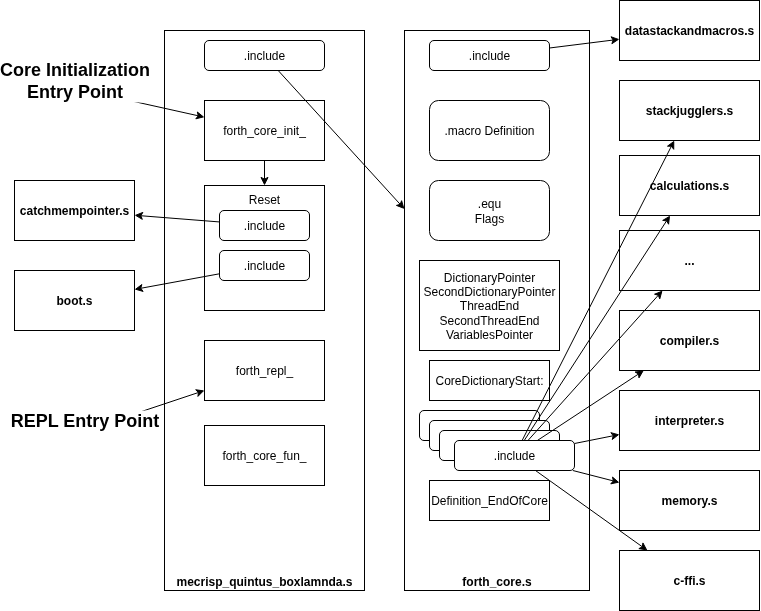
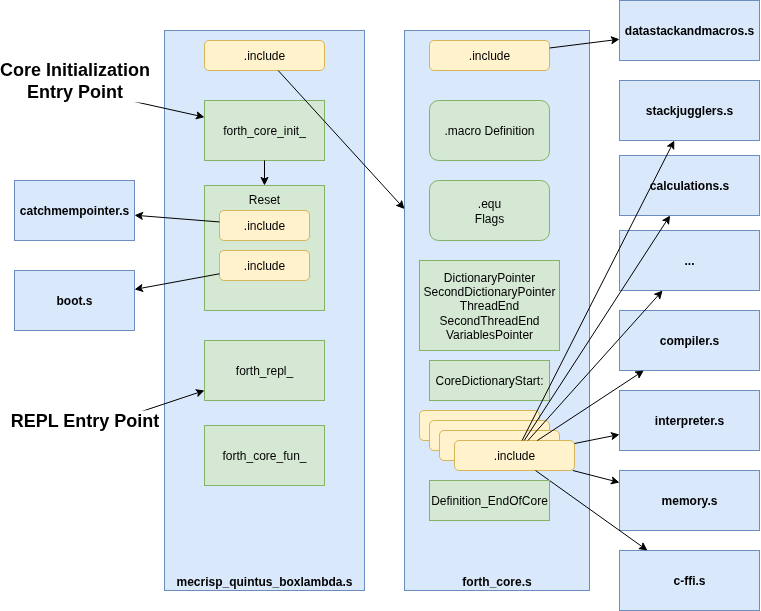
Add Forth Core Org diagram

diff --git a/docs/forth-core.md b/docs/forth-core.md
@@ -83,6 +83,10 @@ There's a lot to be said about the Forth Core. It’s a well-written piece of co
 
 The top-level source file is [mecrisp-quintus-boxlambda.s](https://github.com/epsilon537/boxlambda/blob/master/sw/components/forth_core/mecrisp-quintus-boxlambda.s). I suggest starting code reading from the beginning of that file, working your way down, recursing into each `.include` file you come across. Recursing into include files isn't something I would typically do in a C code-reading session, but for understanding the Mecrisp Forth core, it is a must.
 
+![Forth Core Org](assets/forth-core_org.png)
+
+*Forth Core Organization.*
+
 ### Key Variables
 
 #### Forth Linker Sections and Variables
